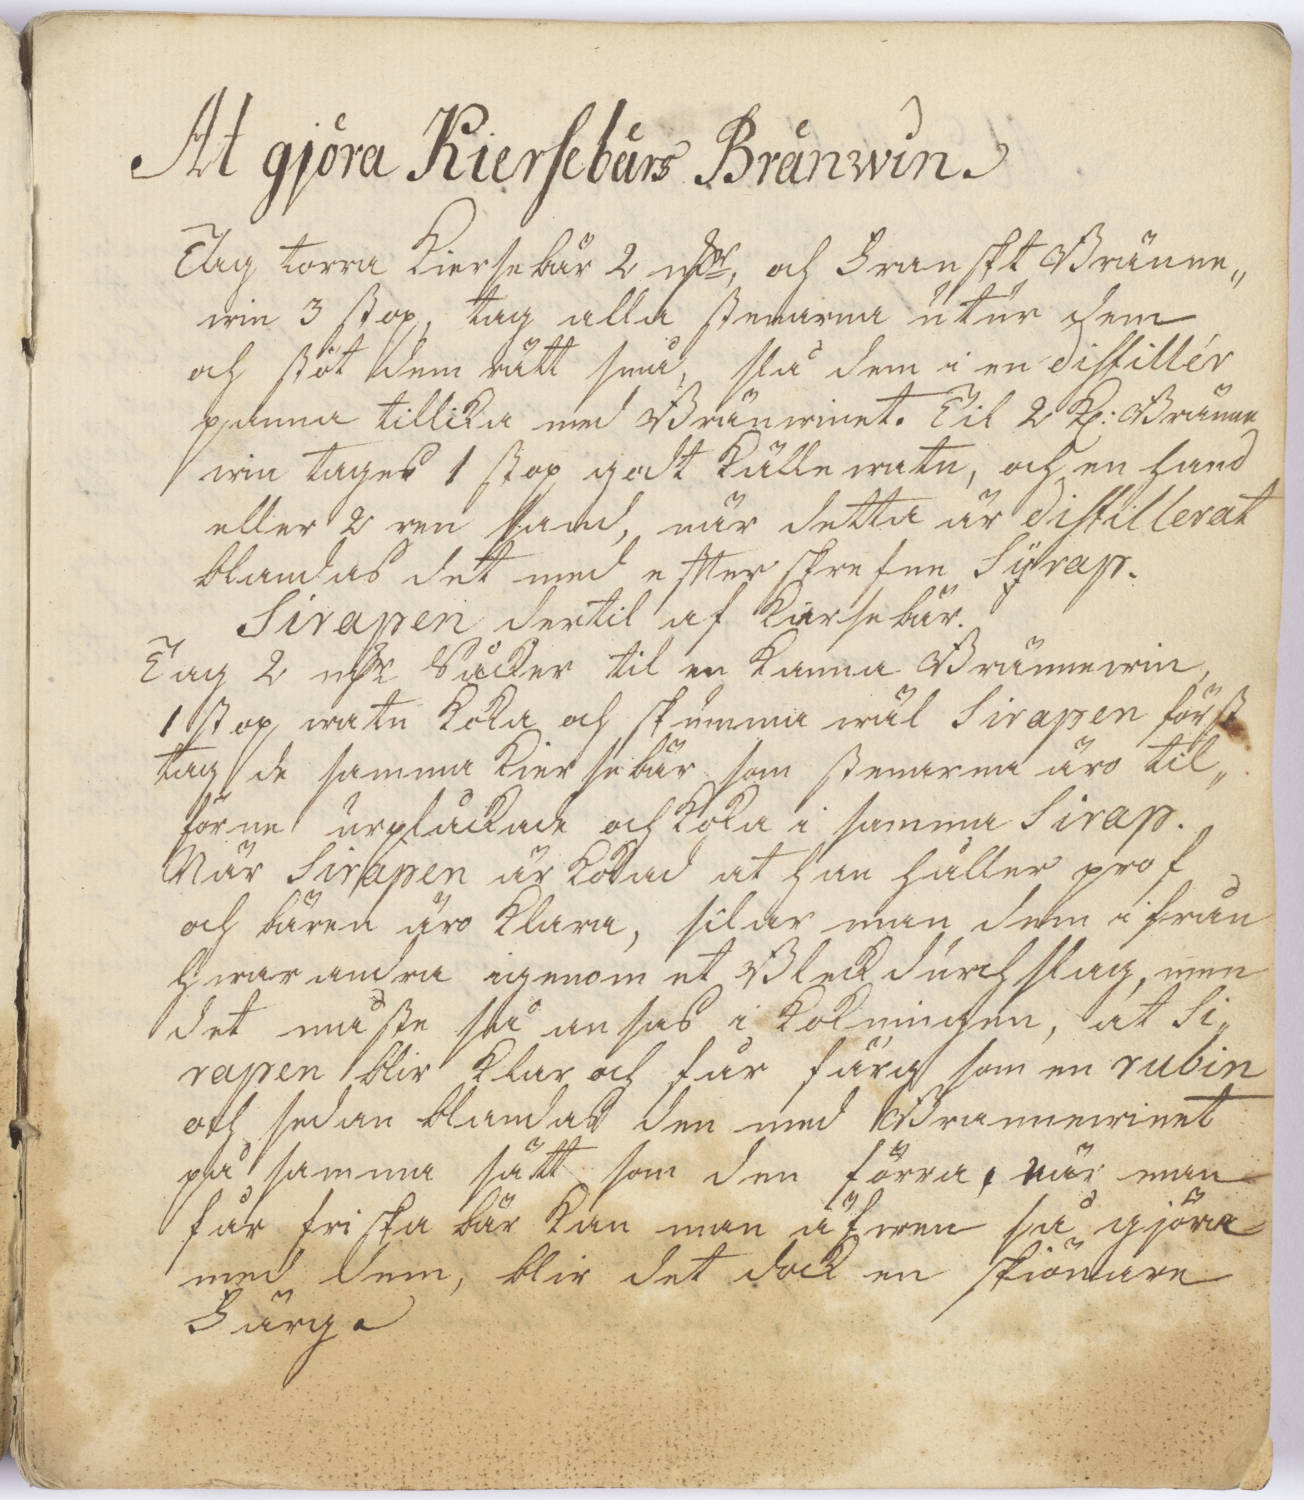
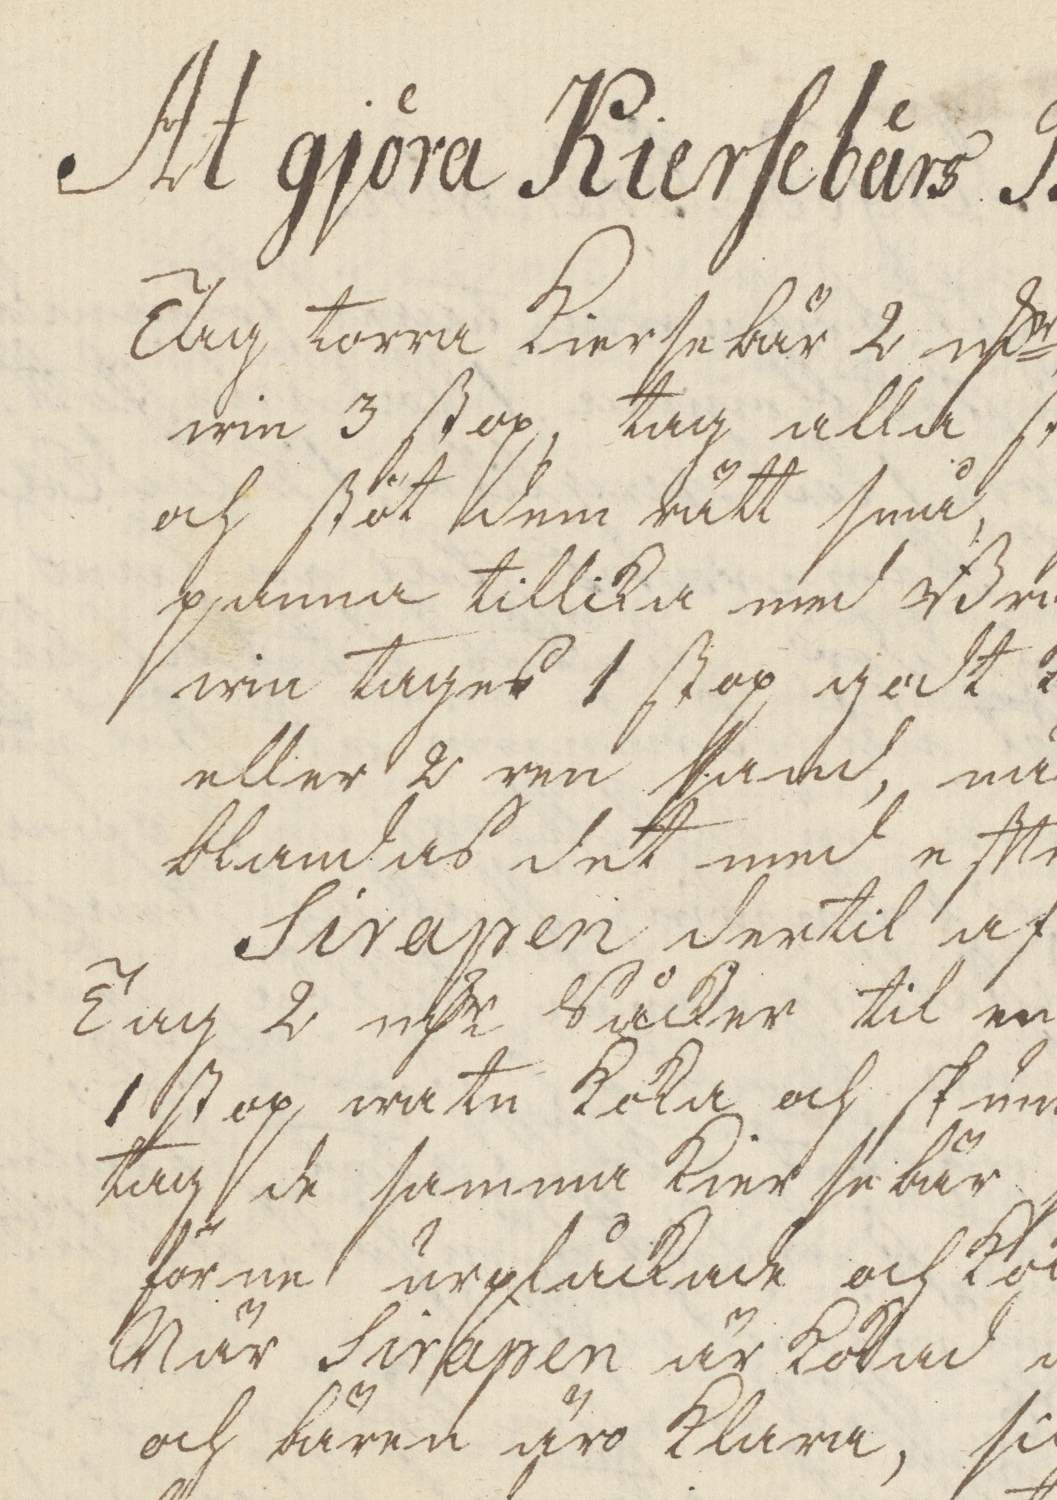
refactor: crop collection cover images to same dimensions
+ add missing cover images

diff --git a/CHANGELOG.md b/CHANGELOG.md
@@ -8,6 +8,10 @@ The format is based on [Keep a Changelog](https://keepachangelog.com/), and this
 
 ## Unreleased
 
+### Changed
+
+- Crop collection cover images to same dimensions.
+
 
 
 ## [1.5.6-granska.3] – 2025-02-06
